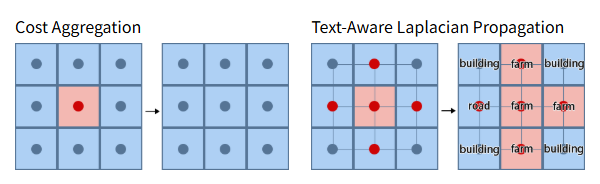
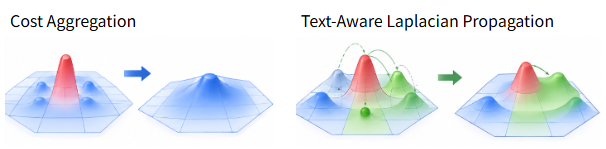
emmm

diff --git a/dino_splat_ov/asset/vis4/2.html b/dino_splat_ov/asset/vis4/2.html
@@ -45,10 +45,10 @@
 
 <ul>
     <li>
-        <p>Cost Aggregation</p><img src="./CA.png" alt="">
+        <p>Cost Aggregation</p><img src="./1.png" alt="">
     </li>
     <div style="width: 40px;"></div>
     <li>
-        <p>Text-Aware Laplacian Propagation</p><img src="./TTL.png" alt="">
+        <p>Text-Aware Laplacian Propagation</p><img src="./2.png" alt="">
     </li>
 </ul>
